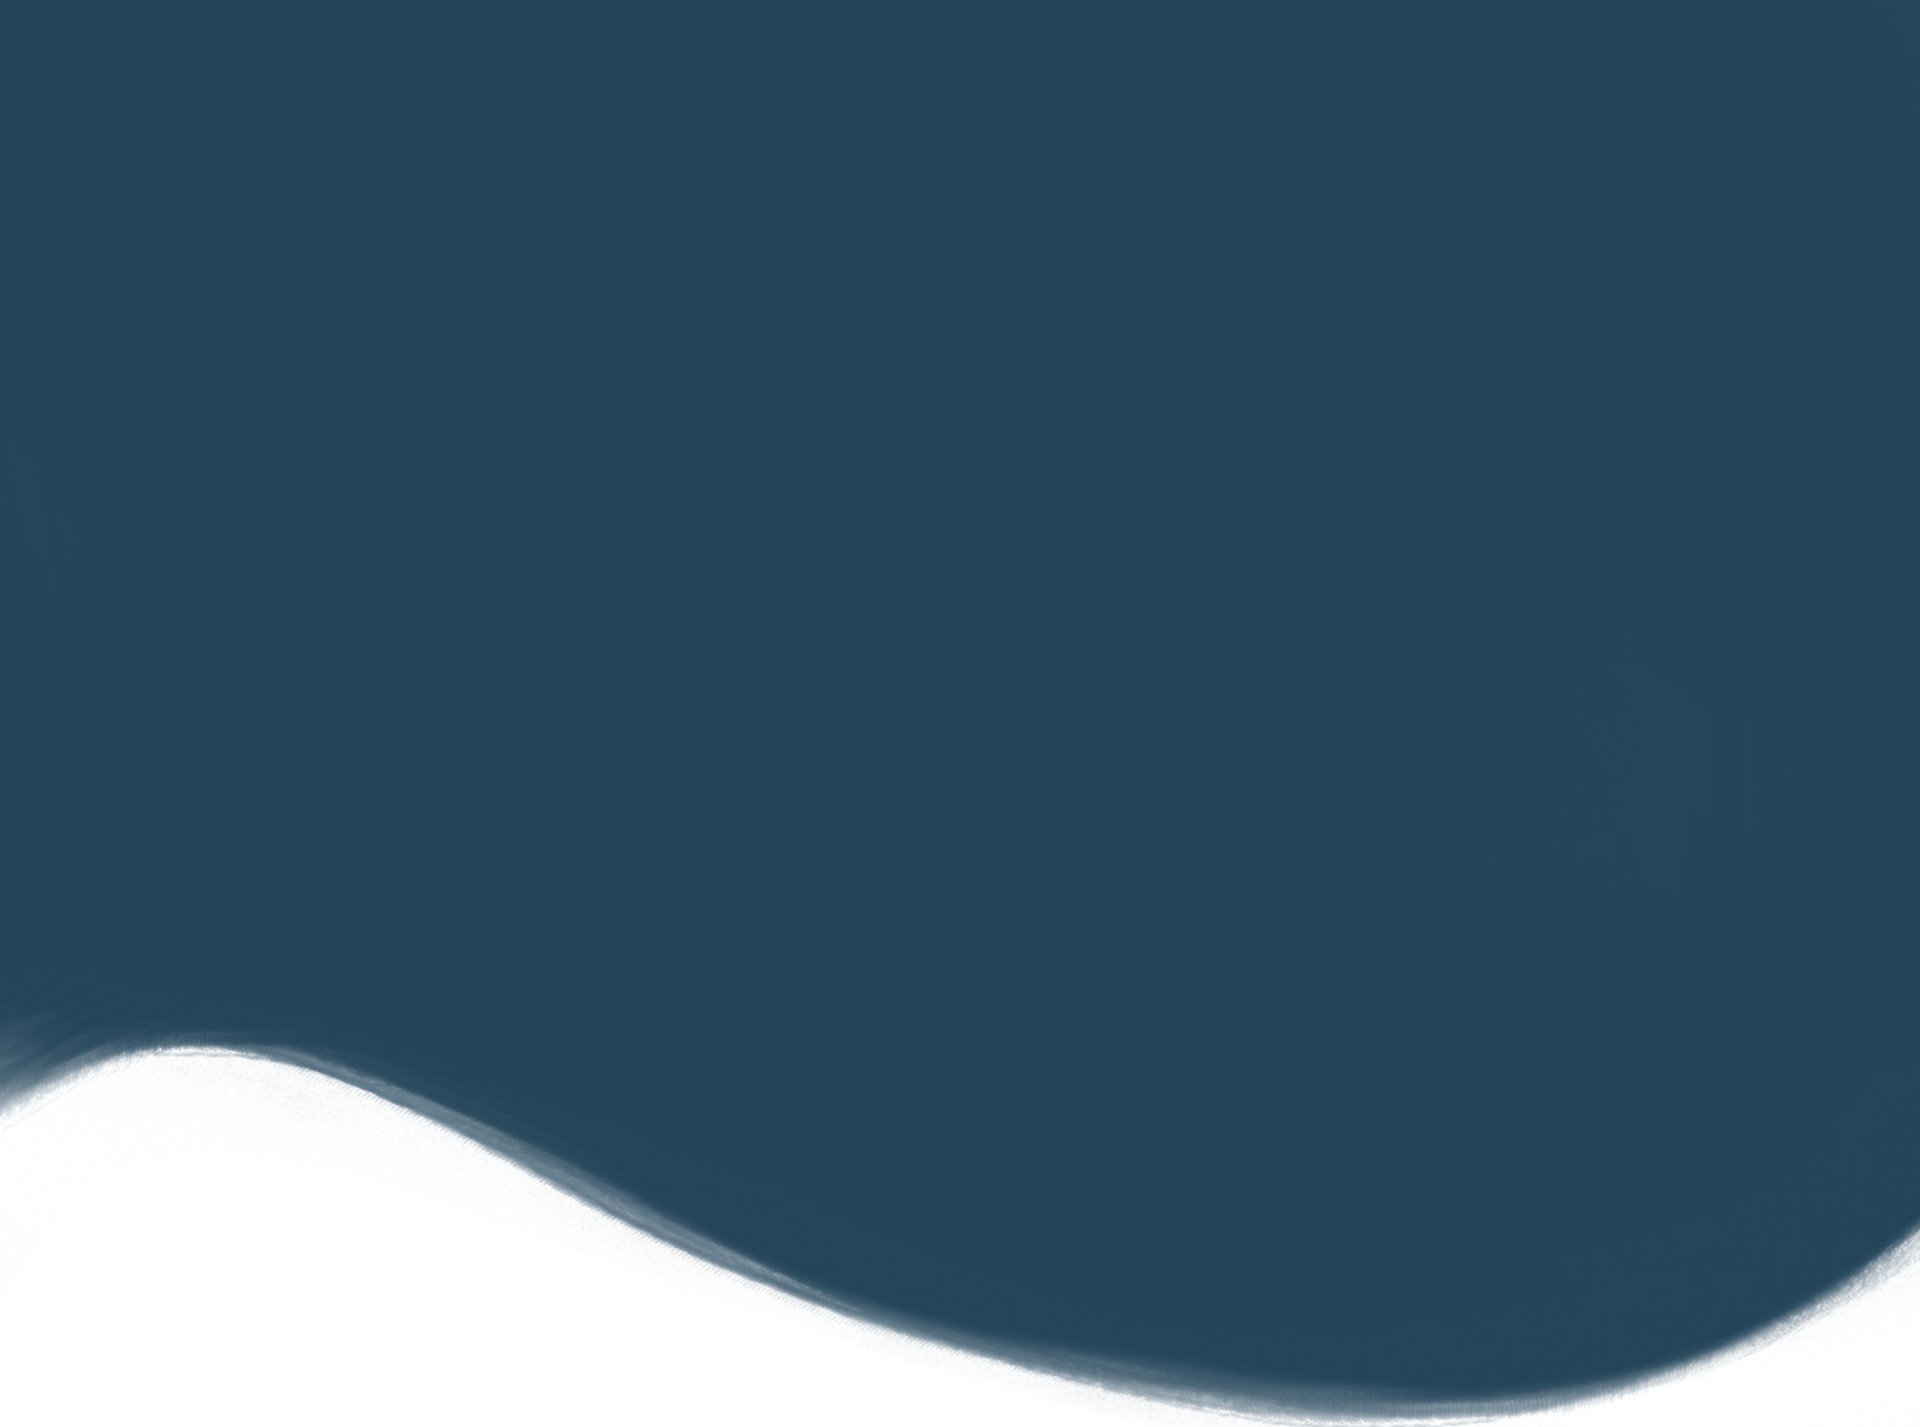
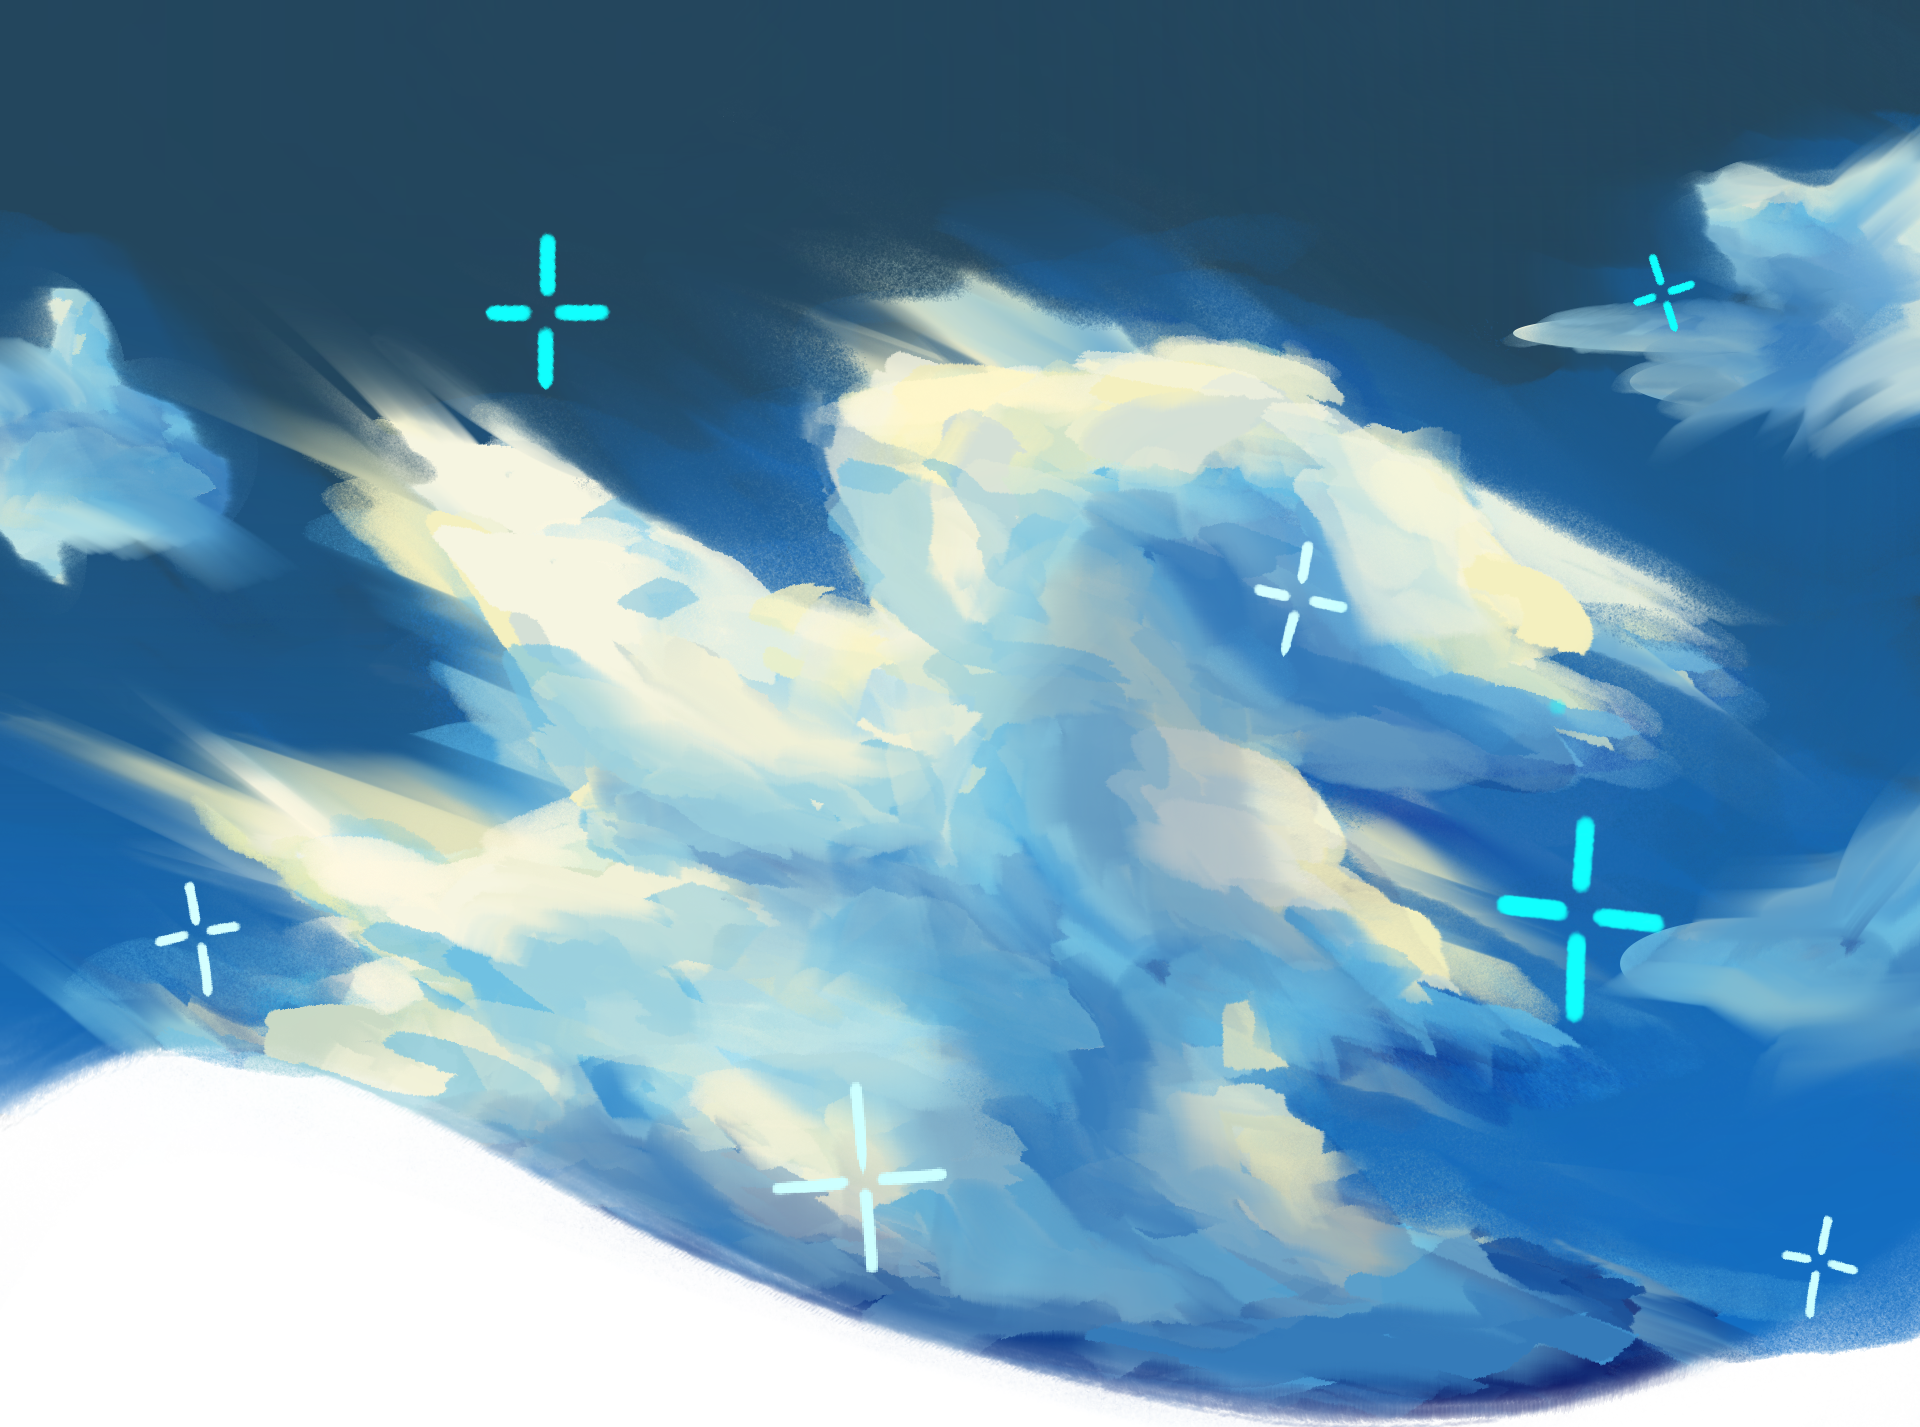
gulp

diff --git a/src/styles/global.css b/src/styles/global.css
@@ -17,7 +17,6 @@ h1 {
 }
 * {
     text-align: center;
-    color: #Fff;
 }
 a:hover {
     text-decoration: underline;
@@ -25,12 +24,12 @@ a:hover {
     font-weight: 750;
 }
 h1:hover {
-    text-decoration: underline;
     transform: scale(1.05);
 }
 b:hover {
     font-style: italic ;
 }
+
 @keyframes fadeOutSlideUp {
     70% {
       opacity: 1;
